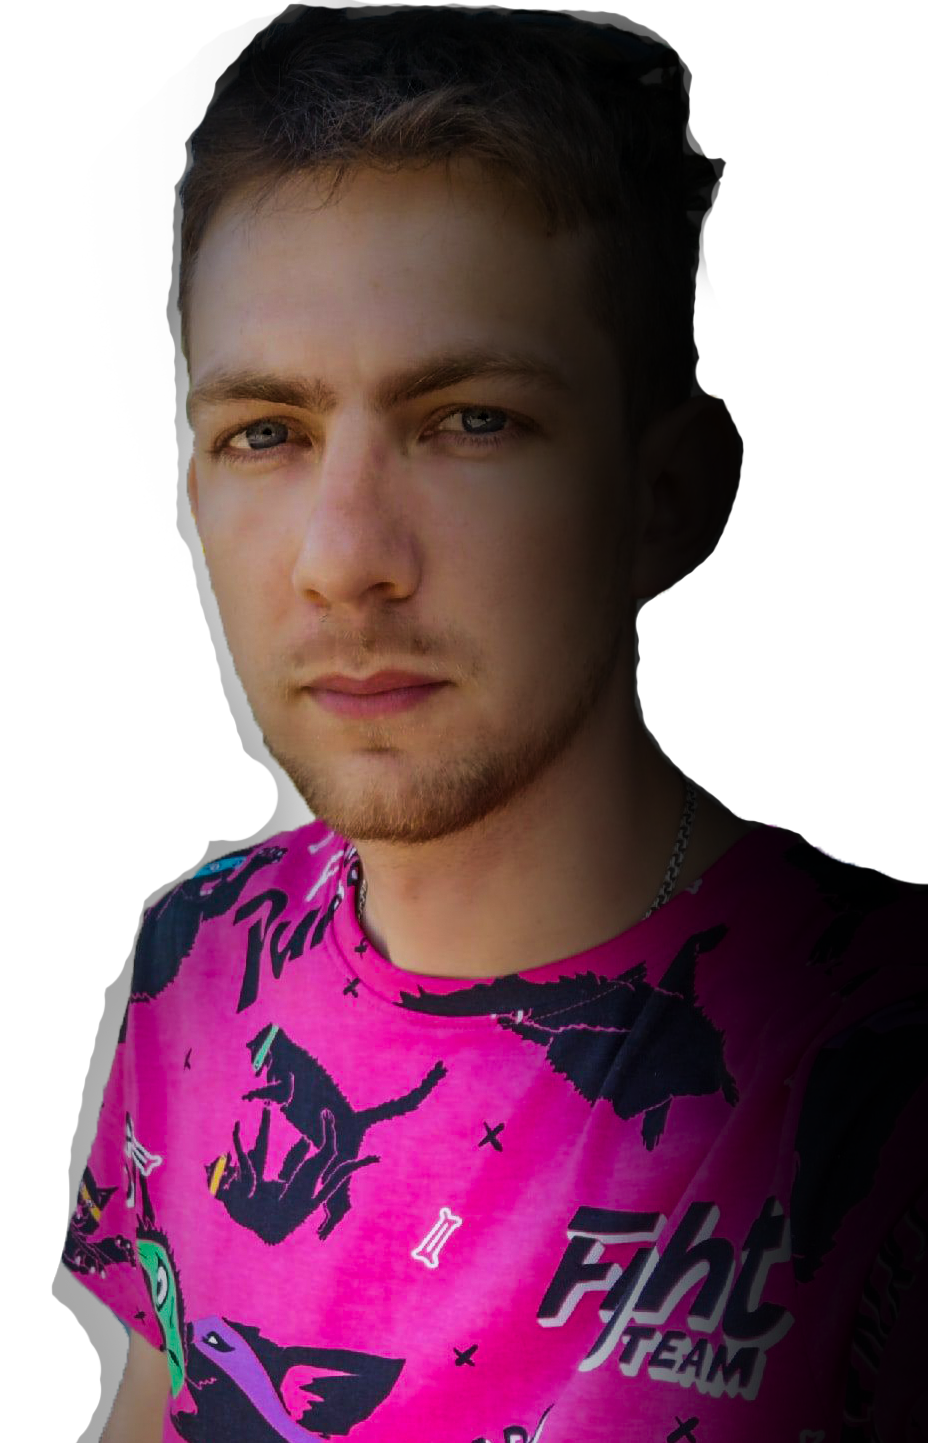
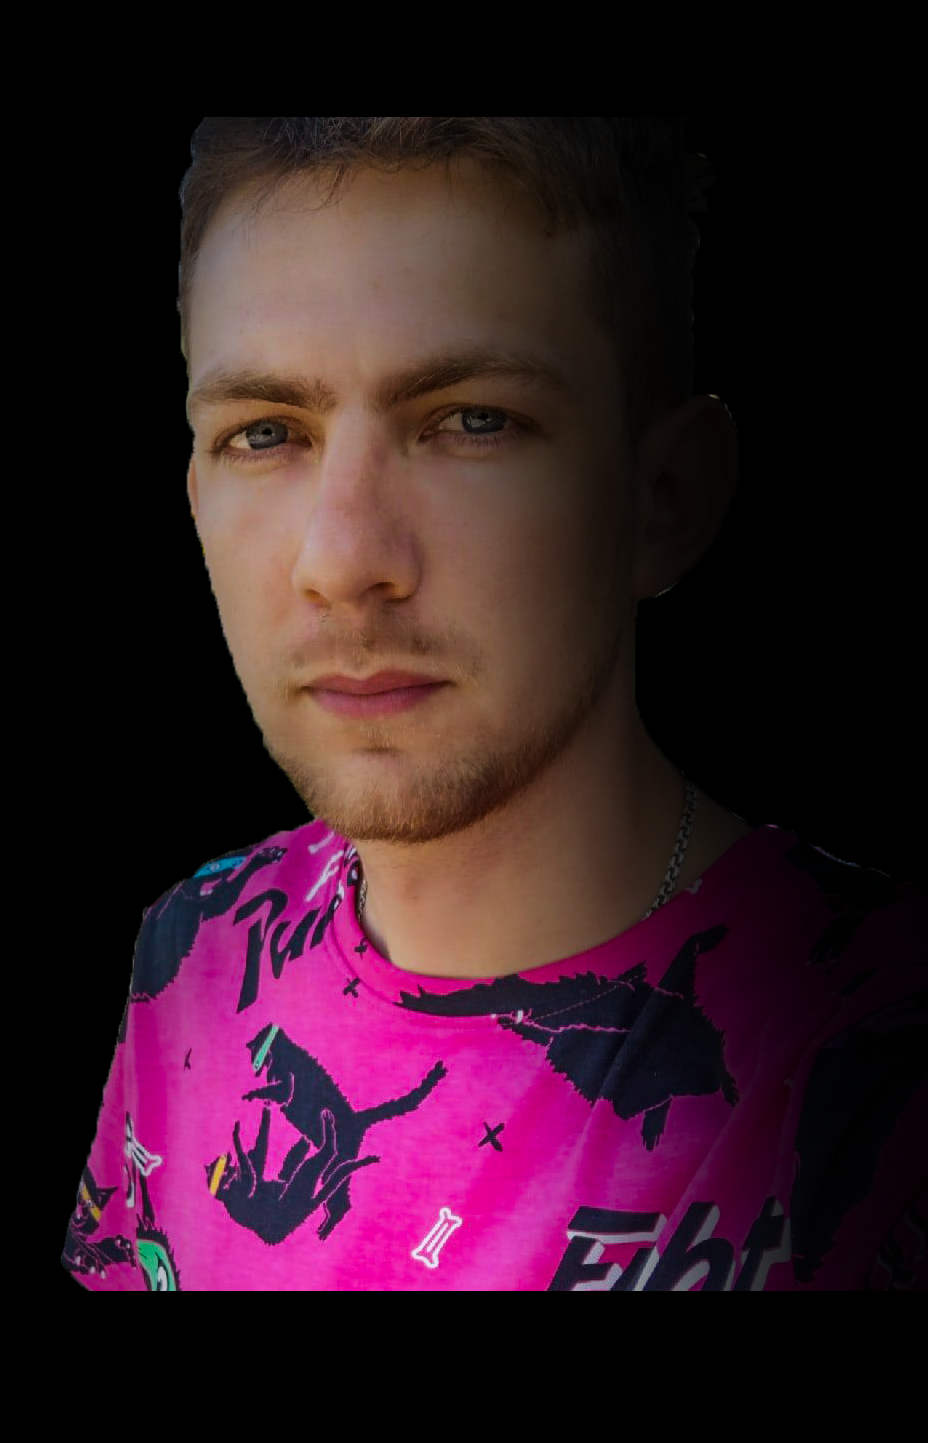
up

diff --git a/index.html b/index.html
@@ -22,11 +22,18 @@
             <li><a href="#i_do-screen" class="nav">What I do</a></li>
             <li><a href="#contact-screen" class="nav">Contact</a></li>
             <li>
-                <select class="lang">
-                    <option value="eng">English</option>
-                    <option value="ru">Русский</option>
-                    <option value="esst">Eesti</option>
-                </select>
+                <div class="lang_select">
+                    <div class="dropdown-container">
+                        <select>
+                            <option class="option" value="1">English</option>
+                            <option class="option" value="2">Русский</option>
+                            <option class="option" value="3">Eesti</option>
+                        </select>
+                        <div class="select-icon">
+                            <i class="fas fa-caret-down icon"></i>
+                        </div>
+                    </div>
+                </div>
             </li>
             <li><a href="docs/CV-Online-eng-DmitryTrutenko.pdf" class="btn">View CV</a></li>
         </ul>
@@ -47,7 +54,7 @@
                     </ul>
                 </div>
                 <div class="img">
-                    <img src="img/ava2.png" alt="img">
+                    <img src="img/ava.png" alt="ava">
                 </div>
             </div>
         </div>

diff --git a/css/style.css b/css/style.css
@@ -14,6 +14,7 @@ body {
   padding: 0;
   margin: 0;
   font-family: "Poppins", sans-serif;
+  /* For IE <= 11 */
 }
 body p {
   margin: 0;
@@ -44,9 +45,48 @@ body .bg_text {
   left: 0;
   z-index: -1;
 }
-body .lang {
-  padding: 5px;
+body .dropdown-container {
+  position: relative;
+}
+body select {
+  width: 100%;
+  height: 50px;
+  font-size: 16px;
+  cursor: pointer;
+  border-radius: 0;
+  background-color: transparent;
+  border: none;
+  border-bottom: 2px solid #ff3366;
+  color: #ffffff;
   outline: none;
+  padding: 3px 50px 3px 30px;
+  -webkit-appearance: none;
+  -moz-appearance: none;
+  transition: all 0.4s ease-out;
+}
+body select::-ms-expand {
+  display: none;
+}
+body .select-icon {
+  position: absolute;
+  top: 4px;
+  right: 4px;
+  font-size: 25px;
+  pointer-events: none;
+  color: #ffffff;
+  transition: all 0.4s ease-out;
+}
+body .option {
+  outline: none;
+  padding: 5px;
+}
+body select:hover {
+  color: #ff3366;
+  background-color: #ffffff;
+  border-bottom-color: #fff;
+}
+body select:hover ~ .select-icon .icon {
+  color: #ff3366;
 }
 body ul {
   padding: 0;
@@ -190,10 +230,9 @@ section {
   margin-right: 0;
 }
 .main .main-screen .img img {
-  display: block;
   object-fit: contain;
-  transform: scale(0.4) translateX(-50px);
-  opacity: 0.4;
+  transform: scale(1.2) translateX(-50px);
+  opacity: 0.5;
 }
 
 .main-screen_social {

diff --git a/css/style.scss b/css/style.scss
@@ -49,10 +49,58 @@ body {
     z-index: -1;
   }
 
-  .lang {
-    padding: 5px;
-    outline: none;
+
+  .dropdown-container {
+    position: relative;
   }
+
+  select {
+    width: 100%;
+    height: 50px;
+    font-size: 16px;
+    cursor: pointer;
+    border-radius: 0;
+    background-color: transparent;
+    border: none;
+    border-bottom: 2px solid #ff3366;
+    color: #ffffff;
+    outline: none;
+    padding: 3px 50px 3px 30px;
+    -webkit-appearance: none;
+    -moz-appearance: none;
+    transition: all 0.4s ease-out;
+  }
+
+  /* For IE <= 11 */
+  select::-ms-expand {
+    display: none;
+  }
+
+  .select-icon {
+    position: absolute;
+    top: 4px;
+    right: 4px;
+    font-size: 25px;
+    pointer-events: none;
+    color: #ffffff;
+    transition: all 0.4s ease-out;
+  }
+
+  .option{
+    outline: none;
+    padding: 5px;
+  }
+
+  select:hover {
+    color: #ff3366;
+    background-color: #ffffff;
+    border-bottom-color: #fff;
+  }
+
+  select:hover ~ .select-icon .icon {
+    color: #ff3366;
+  }
+
 
   ul {
     padding: 0;
@@ -220,10 +268,9 @@ section {
 
     .img {
       img {
-        display: block;
         object-fit: contain;
-        transform: scale(0.4) translateX(-50px);
-        opacity: 0.4;
+        transform: scale(1.2) translateX(-50px);
+        opacity: 0.5;
       }
     }
   }
